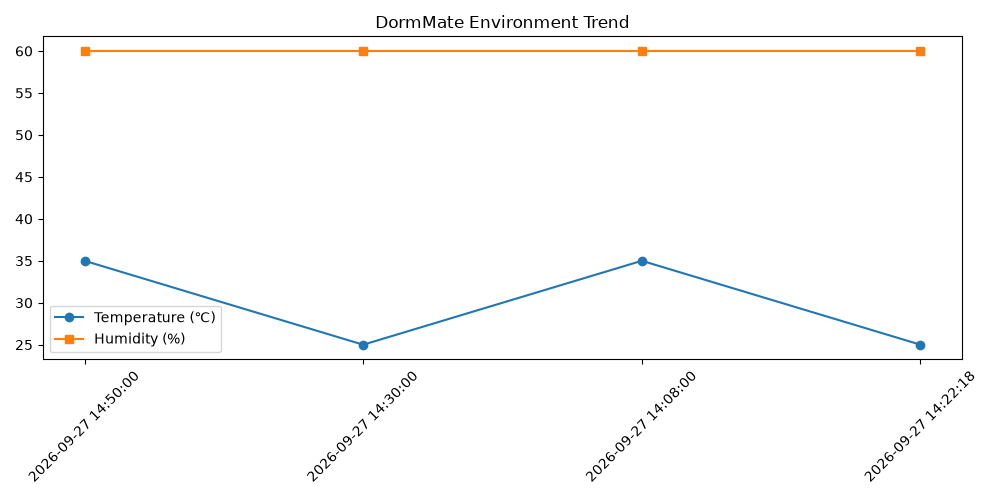
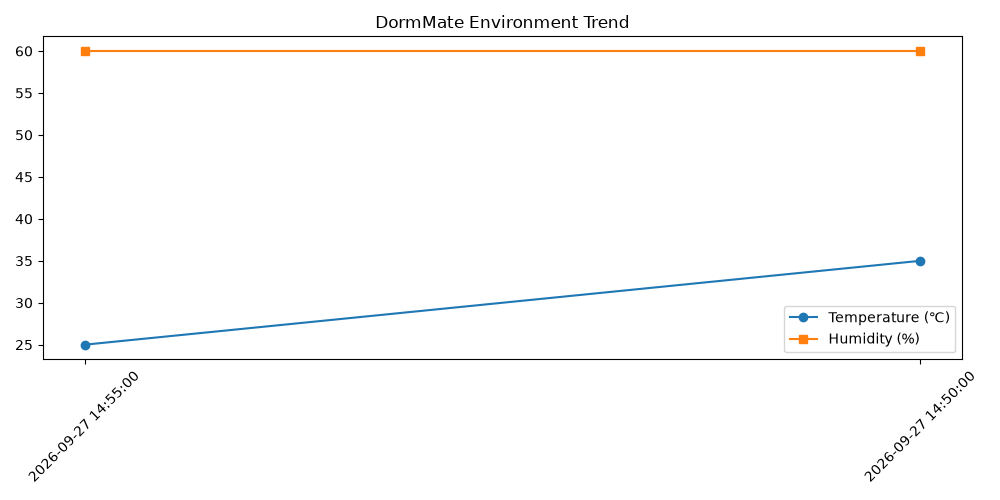
进阶修改

diff --git a/3d/index.html b/3d/index.html
@@ -20,13 +20,16 @@
   </style>
 </head>
 <body>
-  <div id="info">
-    <h2>DormMate 3D 宿舍 (<span id="currentNode">dorm-a</span>)</h2>
-    <div>当前状态：<span class="status" id="statusText">等待 MQTT 数据...</span></div>
-    <div style="margin-top: 10px; display: flex; gap: 8px;">
-      <button onclick="switchNode('dorm-a')" id="btn-dorm-a" style="padding:4px 12px; border:1px solid #cbd5e1; border-radius:6px; background:#2563eb; color:white; cursor:pointer;">dorm-a</button>
-      <button onclick="switchNode('dorm-b')" id="btn-dorm-b" style="padding:4px 12px; border:1px solid #cbd5e1; border-radius:6px; background:white; color:#1e293b; cursor:pointer;">dorm-b</button>
-      <button onclick="switchNode('dorm-c')" id="btn-dorm-c" style="padding:4px 12px; border:1px solid #cbd5e1; border-radius:6px; background:white; color:#1e293b; cursor:pointer;">dorm-c</button>
+ <div id="info">
+  <h2>DormMate 3D 宿舍</h2>
+  <div>当前节点：<span id="currentNode" style="color:#2563eb;font-weight:bold;">dorm-a</span></div>
+  <div>当前状态：<span class="status" id="statusText">等待数据...</span></div>
+  <div style="margin-top: 10px; display: flex; gap: 8px;">
+    <button onclick="switchNode('dorm-a')" id="btn-dorm-a" style="padding:4px 12px; border:1px solid #cbd5e1; border-radius:6px; background:#2563eb; color:white; cursor:pointer;">dorm-a</button>
+    <button onclick="switchNode('dorm-b')" id="btn-dorm-b" style="padding:4px 12px; border:1px solid #cbd5e1; border-radius:6px; background:white; color:#1e293b; cursor:pointer;">dorm-b</button>
+    <button onclick="switchNode('dorm-c')" id="btn-dorm-c" style="padding:4px 12px; border:1px solid #cbd5e1; border-radius:6px; background:white; color:#1e293b; cursor:pointer;">dorm-c</button>
+  </div>
+  <div id="actionTip" style="color:#d97706; font-size:14px; margin-top:5px;">
     </div>
   </div>
 
@@ -38,17 +41,23 @@
     const scene = new THREE.Scene();
     scene.background = new THREE.Color(0xf3f6fb);
     const camera = new THREE.PerspectiveCamera(75, window.innerWidth / window.innerHeight, 0.1, 1000);
-    camera.position.set(4, 4, 8);
-    camera.lookAt(0, 0.5, 0);
+    camera.position.set(4.5, 4,6.5);
+    camera.lookAt(0, 0.8, 0);
     const renderer = new THREE.WebGLRenderer({ antialias: true });
     renderer.setSize(window.innerWidth, window.innerHeight);
     document.body.appendChild(renderer.domElement);
 
-    const ambientLight = new THREE.AmbientLight(0xffffff, 0.8);
+    // 三盏灯的强度之和必须控制在 1.0 附近：three.js 里 1.0 就是满亮度，
+    // 超过 1.0 后材质颜色的各个通道会被裁到 1，地板/窗户就会变成纯白，看不出状态色
+    const ambientLight = new THREE.AmbientLight(0xffffff, 0.5);
     scene.add(ambientLight);
-    const directionalLight = new THREE.DirectionalLight(0xffffff, 0.8);
+    const directionalLight = new THREE.DirectionalLight(0xffffff, 0.5);
     directionalLight.position.set(5, 10, 7);
     scene.add(directionalLight);
+    // 暖色台灯光：只做氛围点缀，强度过大会把整个场景洗白
+    const warmLight = new THREE.PointLight(0xffaa55, 0.2);
+    warmLight.position.set(2, 3, 2);
+    scene.add(warmLight);
 
     // ================= 2. 创建 3D 对象 =================
     const floorGeometry = new THREE.BoxGeometry(8, 0.2, 8);
@@ -105,18 +114,70 @@
     glass.position.z = 0.1;
     windowGroup.add(glass);
     scene.add(windowGroup);
+    // ================= 新增：宿舍床铺 =================
+const bedGroup = new THREE.Group();
+bedGroup.position.set(-2, 0, 1); // 放在风扇左侧
+
+const bedFrameGeo = new THREE.BoxGeometry(2.2, 0.3, 3.5);
+const bedFrameMat = new THREE.MeshStandardMaterial({ color: 0x64748b });
+const bedFrame = new THREE.Mesh(bedFrameGeo, bedFrameMat);
+bedFrame.position.y = 0.3;
+bedGroup.add(bedFrame);
+
+const mattressGeo = new THREE.BoxGeometry(2.0, 0.3, 3.3);
+const mattressMat = new THREE.MeshStandardMaterial({ color: 0xf8fafc });
+const mattress = new THREE.Mesh(mattressGeo, mattressMat);
+mattress.position.y = 0.6;
+bedGroup.add(mattress);
+
+const pillowGeo = new THREE.BoxGeometry(1.6, 0.2, 0.6);
+const pillowMat = new THREE.MeshStandardMaterial({ color: 0xcbd5e1 });
+const pillow = new THREE.Mesh(pillowGeo, pillowMat);
+pillow.position.set(0, 0.8, -1.2);
+bedGroup.add(pillow);
+
+scene.add(bedGroup);
+
+// ================= 新增：暖色台灯 =================
+const lampGroup = new THREE.Group();
+lampGroup.position.set(2.5, 0, 1);
+
+const lampBaseGeo = new THREE.CylinderGeometry(0.3, 0.3, 0.1, 16);
+const lampBaseMat = new THREE.MeshStandardMaterial({ color: 0x475569 });
+const lampBase = new THREE.Mesh(lampBaseGeo, lampBaseMat);
+lampGroup.add(lampBase);
+
+const lampPoleGeo = new THREE.CylinderGeometry(0.05, 0.05, 1.2, 8);
+const lampPoleMat = new THREE.MeshStandardMaterial({ color: 0x94a3b8 });
+const lampPole = new THREE.Mesh(lampPoleGeo, lampPoleMat);
+lampPole.position.y = 0.6;
+lampGroup.add(lampPole);
+
+const lampShadeGeo = new THREE.ConeGeometry(0.4, 0.5, 16);
+const lampShadeMat = new THREE.MeshStandardMaterial({ color: 0xfcd34d });
+const lampShade = new THREE.Mesh(lampShadeGeo, lampShadeMat);
+lampShade.position.y = 1.3;
+lampGroup.add(lampShade);
+
+scene.add(lampGroup);
 
     // ================= 3. 状态映射与更新逻辑 =================
     let fanSpeed = 0;
 
     function updateScene(status) {
-      document.getElementById('statusText').textContent = status;
+      const statusLabel = document.getElementById('statusText');
+      statusLabel.textContent = status;
+      // 类名与上方 <style> 里的 .status.偏热 等规则对应，状态文字才有颜色
+      statusLabel.className = `status ${status}`;
       switch (status) {
         case '正常': fanSpeed = 0.02; floorMaterial.color.set(0xcbd5e1); glassMaterial.color.set(0x38bdf8); break;
         case '偏热': fanSpeed = 0.4; floorMaterial.color.set(0xfca5a5); glassMaterial.color.set(0xef4444); break;
         case '偏冷': fanSpeed = 0; floorMaterial.color.set(0x93c5fd); glassMaterial.color.set(0x3b82f6); break;
         case '偏湿': fanSpeed = 0.15; floorMaterial.color.set(0xfcd34d); glassMaterial.color.set(0xd97706); break;
       }
+      // 窗户自发光跟着状态色走：原来固定写死蓝色 emissive，
+      // 它会直接叠加在玻璃上，把偏热/偏湿的窗户也冲成白色
+      glassMaterial.emissive.copy(glassMaterial.color).multiplyScalar(0.35);
       floorMaterial.needsUpdate = true;
       glassMaterial.needsUpdate = true;
     }
@@ -133,9 +194,21 @@
     let currentNodeId = 'dorm-a';
     const latestData = {};
 
+    // 动作提示：收到处理指令时在面板上给出可见反馈，5 秒后自动消失
+    let actionTipTimer = null;
+    function showActionTip(text) {
+      const tip = document.getElementById('actionTip');
+      tip.textContent = text;
+      clearTimeout(actionTipTimer);
+      actionTipTimer = setTimeout(() => { tip.textContent = ''; }, 5000);
+    }
+
     function switchNode(nodeId) {
       currentNodeId = nodeId;
       document.getElementById('currentNode').textContent = nodeId;
+      // 上一个宿舍的动作提示不能留在面板上，避免误读成当前宿舍的
+      clearTimeout(actionTipTimer);
+      document.getElementById('actionTip').textContent = '';
       ['dorm-a', 'dorm-b', 'dorm-c'].forEach(id => {
         const btn = document.getElementById(`btn-${id}`);
         if (id === nodeId) {
@@ -171,6 +244,7 @@
         if (data.action === 'turn_on_fan') {
           if (data.nodeId === currentNodeId) {
             fanSpeed = 0.4;
+            showActionTip(`已收到 ${data.nodeId} 的指令：开启风扇`);
             console.log(`收到 ${data.nodeId} 开启风扇指令，3D 风扇启动！`);
           }
         }

diff --git a/report/report.html b/report/report.html
@@ -4,28 +4,28 @@
 <head><meta charset="UTF-8"><title>DormMate 环境报告</title></head>
 <body>
 <h1>DormMate 环境报告</h1>
-<p>记录数: 4</p>
+<p>记录数: 2</p>
 <p>温度最高: 35℃, 最低: 25℃</p>
 <p>湿度最高: 60%, 最低: 60%</p>
 <h2>状态统计</h2>
 <ul>
-    <li>偏热: 2 条</li><li>正常: 2 条</li>
+    <li>正常: 1 条</li><li>偏热: 1 条</li>
 </ul>
 <h2>需要关注的记录</h2>
 <table border="1">
     <tr><th>时间</th><th>温度</th><th>湿度</th><th>状态</th><th>ML 判断</th></tr>
-    <tr><td>2026-09-27 14:50:00</td><td>35</td><td>60</td><td>偏热</td><td>正常</td></tr><tr><td>2026-09-27 14:08:00</td><td>35</td><td>60</td><td>偏热</td><td>正常</td></tr>
+    <tr><td>2026-09-27 14:50:00</td><td>35</td><td>60</td><td>偏热</td><td>正常</td></tr>
 </table>
 <h2>ML 异常分析</h2>
 <p>模型: IsolationForest (n_estimators=100, contamination='auto', random_state=42)，特征: temperature + humidity</p>
-<p>训练样本: 4 条，其中被模型标记为异常: 0 条</p>
+<p>训练样本: 2 条，其中被模型标记为异常: 0 条</p>
 <table border="1">
     <tr><th>当前值</th><th>固定规则状态</th><th>ML 判断</th></tr>
     <tr><td>29℃ / 72%</td><td>正常</td><td>正常 (predict=1)</td></tr>
 </table>
-<p>决策函数值: 0.0270（predict 返回 1 为正常、-1 为异常；score 越负越异常）</p>
+<p>决策函数值: 0.0000（predict 返回 1 为正常、-1 为异常；score 越负越异常）</p>
 <h3>判断差异说明（自动生成）</h3>
-<p>本次有 <b>2</b> 条记录两种判断不一致：35℃/60%（规则「偏热」/ ML「正常」，该组合在 4 条样本中出现 2 次）；35℃/60%（规则「偏热」/ ML「正常」，该组合在 4 条样本中出现 2 次）。</p><p>这是<b>方法定位不同，不是模型出错</b>：固定规则是<b>绝对阈值</b>，只看单条数据本身是否越过 18℃ / 30℃ / 75% 这几条红线，与历史数据无关；IsolationForest 是<b>相对离群度</b>，判断的是这条数据在历史样本中是否罕见，与阈值无关。</p><p>上表中被规则判为「偏热」的记录，其温湿度组合在训练集里已多次出现，在模型眼中属于常见状态，因此 ML 判为正常。两者结论独立，可以理解为：<b>规则管红线，ML 管离群</b>。</p><p>⚠ 当前训练样本仅 <b>4</b> 条，模型能学到的分布有限，ML 结论的稳定性需要更多不同温湿度组合的样本支撑。</p>
+<p>本次有 <b>1</b> 条记录两种判断不一致：35℃/60%（规则「偏热」/ ML「正常」，该组合在 2 条样本中出现 1 次）。</p><p>这是<b>方法定位不同，不是模型出错</b>：固定规则是<b>绝对阈值</b>，只看单条数据本身是否越过 18℃ / 30℃ / 75% 这几条红线，与历史数据无关；IsolationForest 是<b>相对离群度</b>，判断的是这条数据在历史样本中是否罕见，与阈值无关。</p><p>上表中被规则判为「偏热」的记录，其温湿度组合在训练集里已多次出现，在模型眼中属于常见状态，因此 ML 判为正常。两者结论独立，可以理解为：<b>规则管红线，ML 管离群</b>。</p><p>⚠ 当前训练样本仅 <b>2</b> 条，模型能学到的分布有限，ML 结论的稳定性需要更多不同温湿度组合的样本支撑。</p>
 <h2>趋势图</h2>
 <img src="trend.png" alt="Trend" style="max-width: 100%;">
 </body>

diff --git a/web/script.js b/web/script.js
@@ -44,6 +44,19 @@ function getAdvice(status) {
   }
 }
 
+// 状态标签配色：类名必须与 style.css 里的 .status-block.偏热 等规则一一对应
+const STATUS_CLASSES = ['正常', '偏热', '偏冷', '偏湿'];
+
+// 统一更新状态文字 + 配色：每次先摘掉上一次的状态类，
+// 否则「偏热」和「偏冷」会同时挂在元素上，颜色由 CSS 顺序决定，看起来就像没变色
+function setStatusText(text, status) {
+  statusText.textContent = text;
+  statusText.classList.remove(...STATUS_CLASSES);
+  if (status) {
+    statusText.classList.add(status);
+  }
+}
+
 function formatTime(date) {
   const pad = (n) => String(n).padStart(2, '0');
   const year = date.getFullYear();
@@ -100,7 +113,7 @@ analyzeBtn.addEventListener('click', () => {
   const errorMessage = validateInput(rawTemperature, rawHumidity);
 
   if (errorMessage) {
-    statusText.textContent = '输入有误';
+    setStatusText('输入有误', null);
     statusText.classList.add('error');
     adviceText.textContent = errorMessage;
     return;
@@ -116,7 +129,7 @@ analyzeBtn.addEventListener('click', () => {
   const advice = getAdvice(status);
   const time = formatTime(new Date());
 
-  statusText.textContent = `当前状态：${status}`;
+  setStatusText(`当前状态：${status}`, status);
   adviceText.textContent = `建议：${advice}`;
 
   // 历史追加：把本次结果加入数组并重新渲染
@@ -289,7 +302,7 @@ function renderSelectedNode() {
     // 还没收到过这个宿舍的数据：清空输入框，避免显示上一个宿舍的残留
     temperatureInput.value = '';
     humidityInput.value = '';
-    statusText.textContent = '等待数据';
+    setStatusText('等待数据', null);
     adviceText.textContent = `尚未收到 ${selectedNodeId} 的数据，也可以手动输入温湿度后点击“分析环境”。`;
     renderHistory();
     return;
@@ -297,7 +310,7 @@ function renderSelectedNode() {
 
   temperatureInput.value = data.temperature;
   humidityInput.value = data.humidity;
-  statusText.textContent = `当前状态：${data.status}`;
+  setStatusText(`当前状态：${data.status}`, data.status);
   adviceText.textContent = `建议：${getAdvice(data.status)}`;
   renderHistory();
 }

diff --git a/dashboard/index.html b/dashboard/index.html
@@ -25,6 +25,7 @@
 
     .cards { display: flex; gap: 16px; justify-content: center; flex-wrap: wrap; margin-bottom: 20px; }
     .card { background: white; padding: 20px; border-radius: 12px; width: 200px; box-shadow: 0 4px 12px rgba(0,0,0,0.1); text-align: center; transition: all 0.3s; }
+    .card:hover { transform: translateY(-4px); box-shadow: 0 8px 20px rgba(0,0,0,0.15); }
     .card h3 { margin: 0 0 10px 0; color: #333; }
     .card .value { font-size: 14px; color: #666; margin-bottom: 6px; }
     .card .status { font-size: 20px; font-weight: bold; }
@@ -51,6 +52,16 @@
     #eventLogList .event-item.is-restored { border-left-color: #16a34a; }
     #eventLogList .event-title { font-weight: bold; color: #1e293b; margin-bottom: 4px; }
     #eventLogList .event-line { font-size: 14px; }
+
+    /* 优先关注的卡片呼吸效果 */
+    @keyframes breathing {
+    0% { box-shadow: 0 0 10px rgba(217, 119, 6, 0.4); }
+    50% { box-shadow: 0 0 25px rgba(217, 119, 6, 0.8); }
+    100% { box-shadow: 0 0 10px rgba(217, 119, 6, 0.4); }
+    }
+    .card.priority {
+      animation: breathing 2s infinite;
+    }
   </style>
 </head>
 <body>

diff --git a/web/style.css b/web/style.css
@@ -107,8 +107,9 @@ h1 {
   background: #f8fafc;
 }
 
+/* 只保留字重：字号交给下方的 .status-block 控制，
+   否则 ID 选择器优先级更高，会把 .status-block 的 22px 盖回 20px */
 #statusText {
-  font-size: 20px;
   font-weight: 700;
 }
 
@@ -173,3 +174,24 @@ h1 {
 #ttsBtn:hover {
   background: #334155;
 }
+
+/* 输入框获得焦点时，显示淡蓝色光圈 */
+.input-area input:focus {
+  outline: none;
+  border-color: #2563eb;
+  box-shadow: 0 0 0 4px rgba(37, 99, 235, 0.15);
+}
+
+/* 状态标签块，让状态展示更突出 */
+.result-area .status-block {
+  display: inline-block;
+  padding: 8px 16px;
+  border-radius: 8px;
+  font-size: 22px;
+  font-weight: bold;
+  margin-bottom: 10px;
+}
+.status-block.偏热 { background: #fee2e2; color: #dc2626; }
+.status-block.偏冷 { background: #dbeafe; color: #2563eb; }
+.status-block.偏湿 { background: #fef3c7; color: #d97706; }
+.status-block.正常 { background: #dcfce7; color: #16a34a; }

diff --git a/web/index.html b/web/index.html
@@ -36,7 +36,7 @@
 
     <section class="result-area">
       <h2>当前结果</h2>
-      <p id="statusText">尚未分析</p>
+      <span id="statusText" class="status-block">尚未分析</span>
       <p id="adviceText">请输入温湿度后点击“分析环境”。</p>
       <p id="mqttStatus" style="font-size: 13px; color: #d97706; margin-top: 12px;">MQTT：未连接</p>
     </section>
